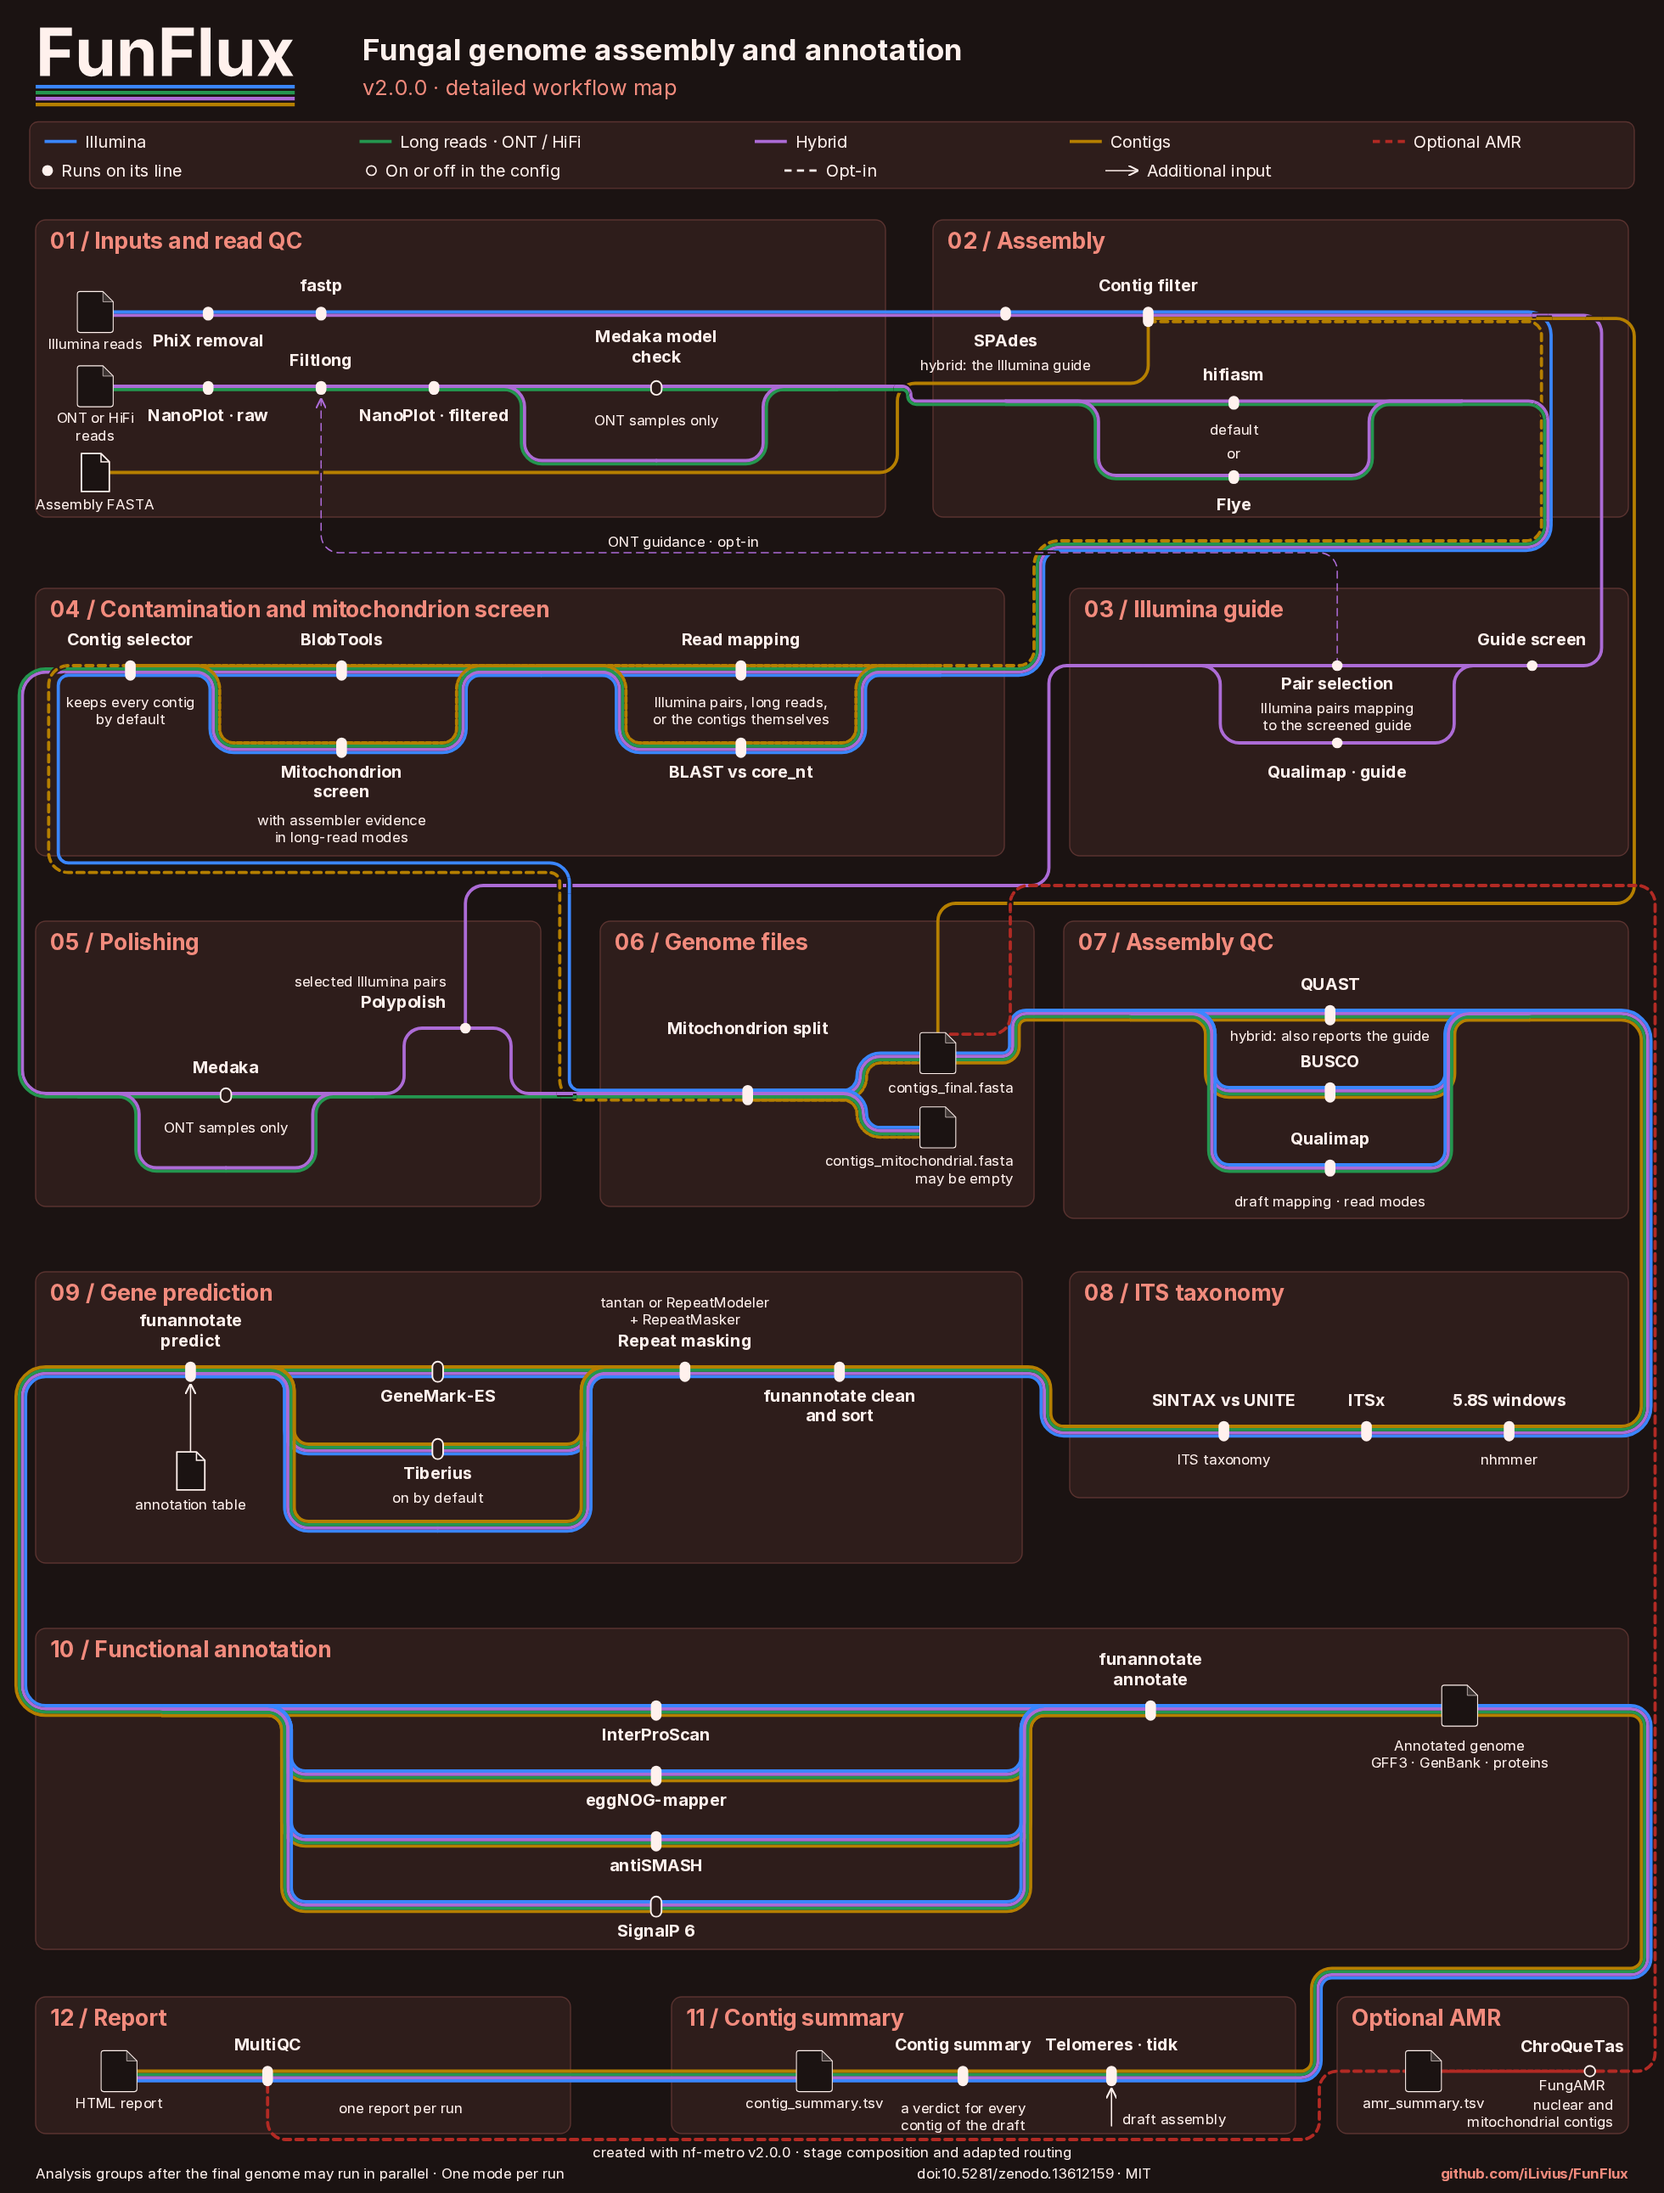
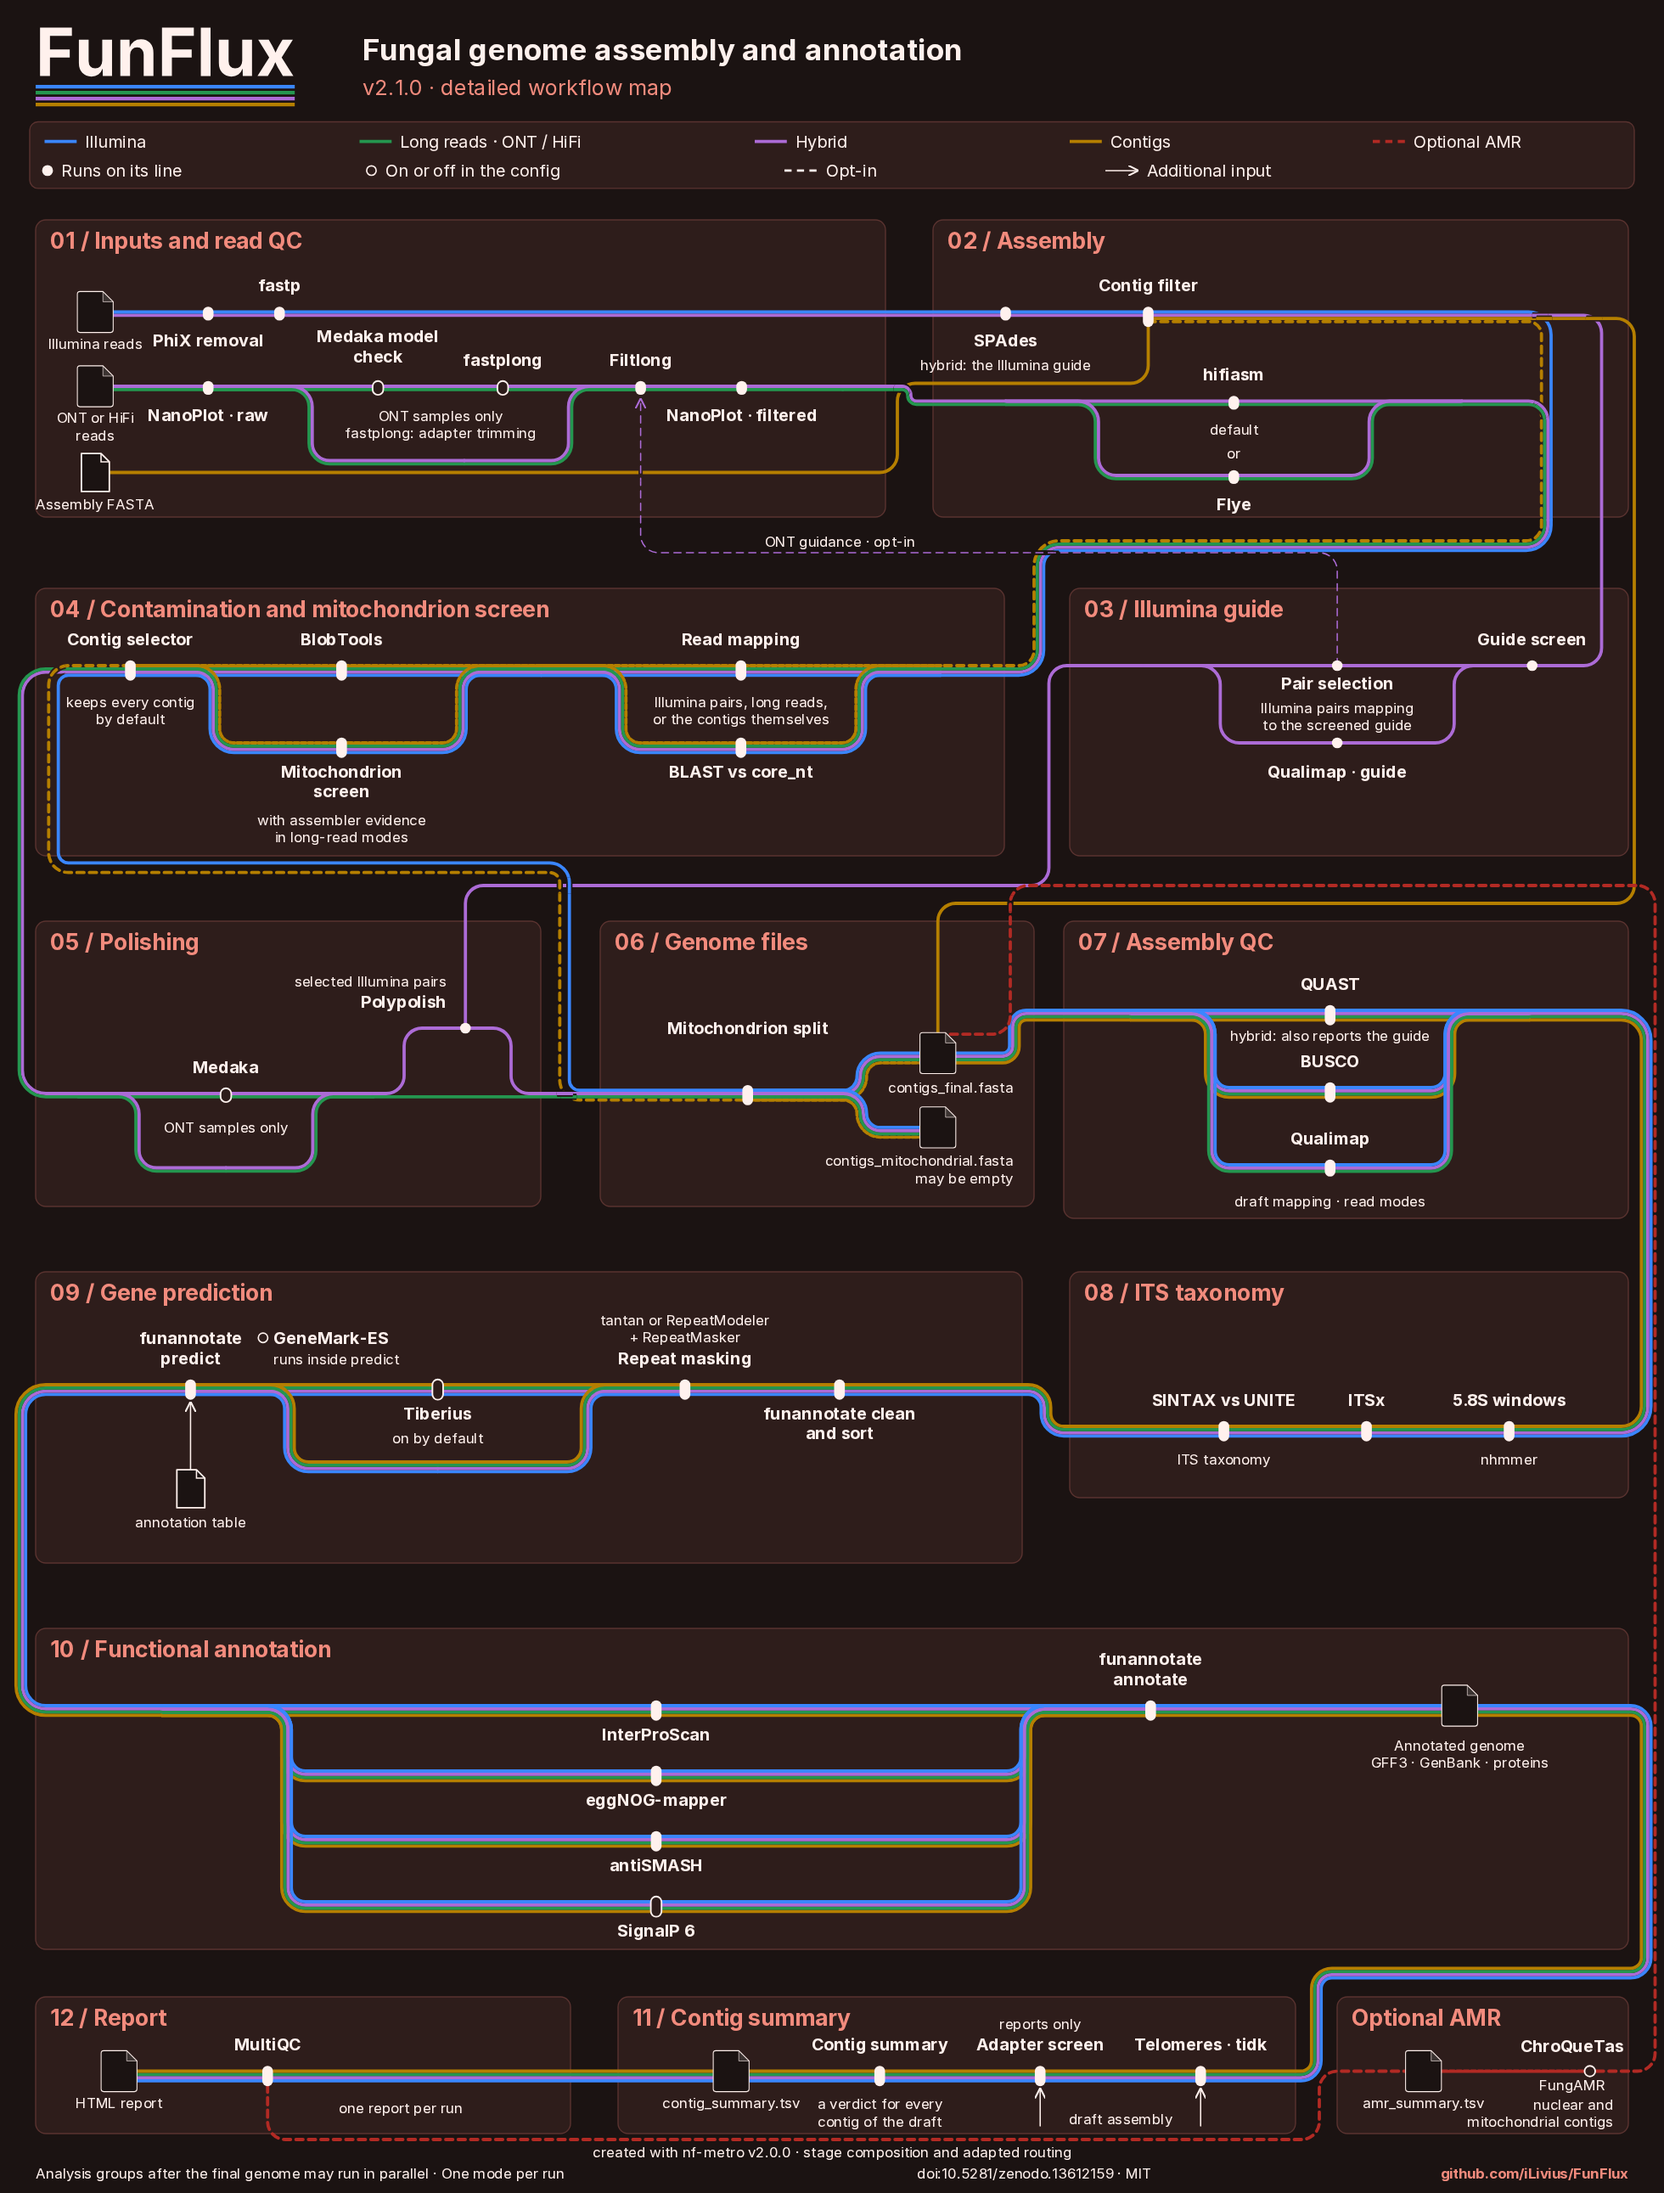
Draw the v2.1.0 metro maps: fastplong, the adapter screen, GeneMark-ES inside predict
The four map images (the README overview and the detailed map of the documentation home
page, each in a light and a dark version) now show FunFlux v2.1.0:

- Read QC: after NanoPlot on the raw reads, ONT reads alone take one loop through the
  Medaka model check and fastplong (adapter trimming), both open rings because the
  configuration can switch them off; PacBio HiFi reads pass them by. The Medaka model
  check sits before Filtlong because it reads the raw reads, as fastplong does.
- Gene prediction: GeneMark-ES is drawn as an open ring beside funannotate predict, with
  the note "runs inside predict", instead of a branch beside Tiberius. Only its licence
  check runs before predict; GeneMark-ES itself runs inside funannotate predict.
- Contig summary: Telomeres (tidk), then the adapter screen ("reports only"), then the
  contig summary; the draft assembly feeds both tidk and the adapter screen.
- The overview lists fastplong under the long-read read QC, GeneMark-ES indented under
  funannotate predict, and the adapter screen in the contig summary group.

The alternative text of the maps in the README and on the home page names v2.1.0 and the
two new steps. The caption under the detailed map names the steps that apply to ONT
samples only (the Medaka model check, fastplong and Medaka) and where GeneMark-ES runs,
and the stage table of the home page adds the adapter screen to the contig summary row.

diff --git a/docs/index.md b/docs/index.md
@@ -36,8 +36,8 @@ pipelines.
 
 ## The workflow at a glance
 
-![Detailed metro map of FunFlux v2.0.0. Blue (illumina), green (longread), purple (hybrid) and gold (contigs) lines run through read QC, assembly, the Illumina guide of hybrid, the contamination and mitochondrion screen and polishing to contigs_final.fasta, and then together through assembly QC, ITS taxonomy, gene prediction, functional annotation and the contig summary to the MultiQC report. Where the lines split into parallel tracks, the steps run side by side; open rings are steps the configuration can switch on or off. A dashed red branch, the optional resistance-mutation screen, reads the final genome and the mitochondrial contigs and ends in the report.](assets/funflux_metro.png#only-light)
-![Detailed metro map of FunFlux v2.0.0. Blue (illumina), green (longread), purple (hybrid) and gold (contigs) lines run through read QC, assembly, the Illumina guide of hybrid, the contamination and mitochondrion screen and polishing to contigs_final.fasta, and then together through assembly QC, ITS taxonomy, gene prediction, functional annotation and the contig summary to the MultiQC report. Where the lines split into parallel tracks, the steps run side by side; open rings are steps the configuration can switch on or off. A dashed red branch, the optional resistance-mutation screen, reads the final genome and the mitochondrial contigs and ends in the report.](assets/funflux_metro_dark.png#only-dark)
+![Detailed metro map of FunFlux v2.1.0. Blue (illumina), green (longread), purple (hybrid) and gold (contigs) lines run through read QC, where ONT reads are also trimmed of the sequencing adapter, assembly, the Illumina guide of hybrid, the contamination and mitochondrion screen and polishing to contigs_final.fasta, and then together through assembly QC, ITS taxonomy, gene prediction, functional annotation and the contig summary, which also screens the draft for adapter sequence, to the MultiQC report. Where the lines split into parallel tracks, the steps run side by side; open rings are steps the configuration can switch on or off. A dashed red branch, the optional resistance-mutation screen, reads the final genome and the mitochondrial contigs and ends in the report.](assets/funflux_metro.png#only-light)
+![Detailed metro map of FunFlux v2.1.0. Blue (illumina), green (longread), purple (hybrid) and gold (contigs) lines run through read QC, where ONT reads are also trimmed of the sequencing adapter, assembly, the Illumina guide of hybrid, the contamination and mitochondrion screen and polishing to contigs_final.fasta, and then together through assembly QC, ITS taxonomy, gene prediction, functional annotation and the contig summary, which also screens the draft for adapter sequence, to the MultiQC report. Where the lines split into parallel tracks, the steps run side by side; open rings are steps the configuration can switch on or off. A dashed red branch, the optional resistance-mutation screen, reads the final genome and the mitochondrial contigs and ends in the report.](assets/funflux_metro_dark.png#only-dark)
 
 Each coloured line is one mode: follow yours from its input to the report. The four lines take
 their own routes to `contigs_final.fasta`, the genome every mode delivers, and from there run on
@@ -48,8 +48,10 @@ straight to `contigs_final.fasta`; the dashed gold path is the contamination and
 screen, which the configuration can switch on. Where the lines split into parallel tracks, the
 steps run side by side. Analysis groups after the final genome may run in parallel. The order
 along the line is a reading order, not the order in which the steps must run. An open ring marks a
-step the configuration switches on or off; the two Medaka steps apply to ONT samples only. Thin
-lines are extra inputs, and the dashed red line is the optional resistance-mutation screen.
+step the configuration switches on or off. The Medaka model check, fastplong (adapter trimming)
+and Medaka apply to ONT samples only; HiFi reads pass them by. GeneMark-ES, marked beside
+funannotate predict, runs inside it when it is switched on. Thin lines are extra inputs, and the
+dashed red line is the optional resistance-mutation screen.
 Select the map to open it larger; select it again to see it at full size, and close it with × or Esc.
 
 The stages, their tools and when they run:
@@ -60,7 +62,7 @@ The stages, their tools and when they run:
 | Contamination screen | BLAST against NCBI core_nt, BlobTools | always; in `contigs` mode only when the screen is switched on |
 | Mitochondrion screen | BLAST, with the assembler's evidence in the long-read modes | with the contamination screen |
 | Assembly QC | QUAST, BUSCO | always |
-| Contig summary | tidk finds the telomeres; one table per sample gives every contig of the draft a verdict ([Contig summary](analysis/contig-summary.md)) | always |
+| Contig summary | tidk finds the telomeres and BLAST+ screens for adapter sequence; one table per sample gives every contig of the draft a verdict ([Contig summary](analysis/contig-summary.md)) | always |
 | ITS taxonomy | ITSx, SINTAX against UNITE | always |
 | Repeat masking | tantan, or RepeatModeler and RepeatMasker | always |
 | Gene prediction | funannotate with its own gene finders, Tiberius (on by default) and GeneMark-ES (with a licence) | always |

diff --git a/README.md b/README.md
@@ -20,7 +20,7 @@ a hybrid of short and long reads, or an assembly you already have.**
 [![CI](https://github.com/iLivius/FunFlux/actions/workflows/ci.yml/badge.svg?branch=main)](https://github.com/iLivius/FunFlux/actions/workflows/ci.yml)
 
 <!-- Workflow overview as a metro map, one coloured line per mode. GitHub shows the dark version to readers in dark mode and the light one otherwise. The detailed map is on the documentation home page (docs/index.md). -->
-<p align="center"><picture><source media="(prefers-color-scheme: dark)" srcset="docs/assets/funflux_overview_dark.png"><img src="docs/assets/funflux_overview.png" alt="FunFlux v2.0.0 workflow overview as a metro map. One coloured line per mode (Illumina, ONT or PacBio HiFi long reads, hybrid, contigs) runs from the reads, or from an assembly, to one final genome file, contigs_final.fasta; the hybrid line also builds the Illumina guide assembly. From there the four lines run on together through assembly QC, ITS taxonomy, gene prediction, functional annotation and the contig summary to a MultiQC report. A dashed red branch is the optional resistance-mutation screen; open rings are steps the configuration can switch on or off."></picture></p>
+<p align="center"><picture><source media="(prefers-color-scheme: dark)" srcset="docs/assets/funflux_overview_dark.png"><img src="docs/assets/funflux_overview.png" alt="FunFlux v2.1.0 workflow overview as a metro map. One coloured line per mode (Illumina, ONT or PacBio HiFi long reads, hybrid, contigs) runs from the reads, or from an assembly, to one final genome file, contigs_final.fasta; ONT reads are trimmed of the sequencing adapter during read QC, and the hybrid line also builds the Illumina guide assembly. From there the four lines run on together through assembly QC, ITS taxonomy, gene prediction, functional annotation and the contig summary, which also screens the draft for adapter sequence, to a MultiQC report. A dashed red branch is the optional resistance-mutation screen; open rings are steps the configuration can switch on or off."></picture></p>
 
 The detailed map, step by step, is on the [documentation home page](https://iLivius.github.io/FunFlux/).
 
